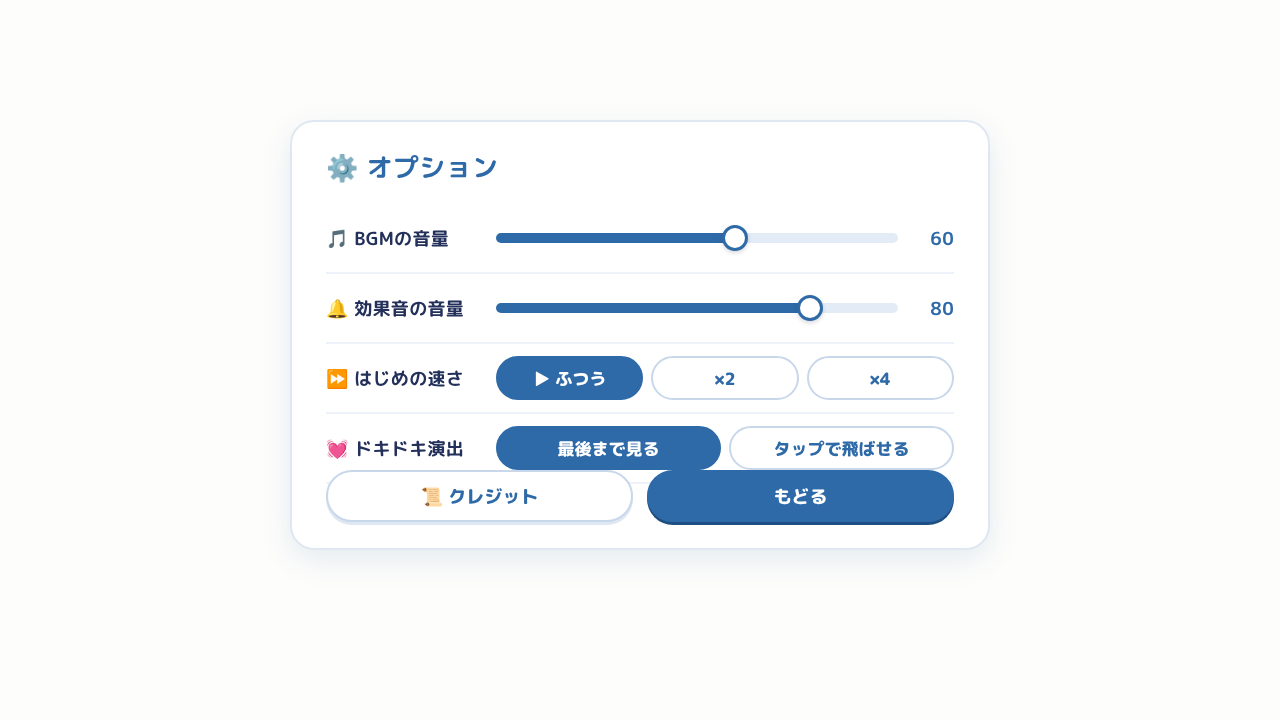
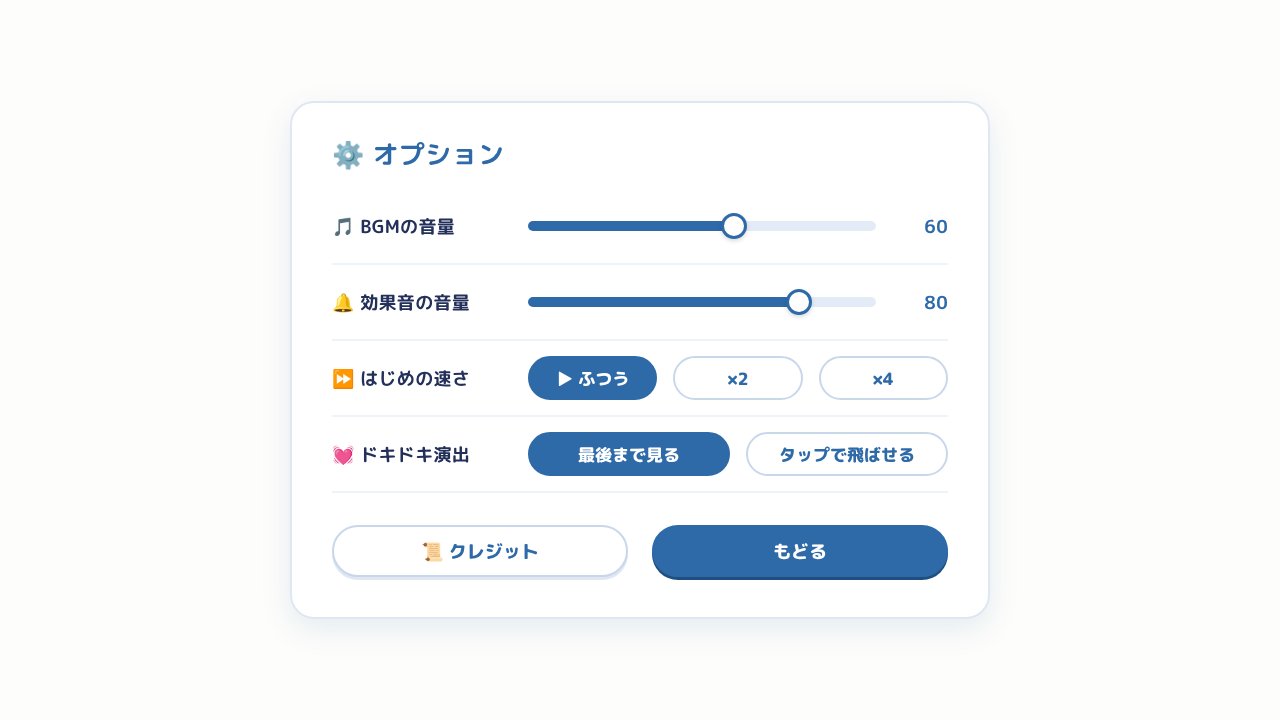
Add history, backlog, junior-high report card and school detail screens; spacing rules
Options buttons get proper breathing room, and an 8px spacing scale in
base.css is now used for gaps between parts, groups and buttons.

Claude-Session: https://claude.ai/code/session_014jpFHFwaTKn7m7KqBEwBuE

diff --git a/ui/report_jhs.html b/ui/report_jhs.html
@@ -1,0 +1,91 @@
+<!doctype html>
+<html lang="ja"><head><meta charset="utf-8"><meta name="viewport" content="width=device-width,initial-scale=1">
+<title>まなびライフ 通知表（中学）</title>
+<link rel="stylesheet" href="base.css">
+<style>
+#behind{position:absolute;inset:0;background:url(../docs/ui/mock-main.png) center/cover;filter:blur(1px)}
+/* 通知表（紙） */
+#paper{position:relative;width:1150px;height:660px;display:grid;grid-template-columns:600px 1fr;column-gap:22px;padding:22px 26px;color:var(--ink);
+  background:#fffdf6;border:4px solid #fff;border-radius:20px;box-shadow:inset 0 0 0 3px #ffe2a8,0 16px 40px rgba(5,10,40,.6);animation:pop .25s ease-out}
+.left{display:flex;flex-direction:column}
+.hd{display:flex;align-items:baseline;gap:12px;padding-bottom:10px;border-bottom:3px double #e6cfa5}
+.hd .t{font-size:30px;font-weight:900;letter-spacing:.3em}
+.hd .g{font-size:18px;color:var(--ink2)}
+.hd .n{margin-left:auto;font-size:18px}
+.tb{margin-top:10px}
+.tr{display:grid;grid-template-columns:140px 56px 24px 1fr;align-items:center;column-gap:0;height:50px;border-bottom:2px solid #f1e6d2;font-size:19px}
+.tr>span:first-child{padding-left:6px}
+.tr.th{height:30px;font-size:13px;color:var(--ink2)}
+.ev{font-size:30px;font-weight:900;text-align:center;line-height:1}
+.ev.s2{color:#e8457f}.ev.s1{color:#0a8fd1}.ev.s0{color:#a7aec4}
+.ev.g5{color:#e8457f}.ev.g4{color:#f08a1c}.ev.g3{color:#0a8fd1}.ev.g2{color:#7f8bb0}.ev.g1{color:#a7aec4}
+.tr.sum{border-bottom:0;border-top:3px double #e6cfa5}.tr.sum .ev{font-size:24px;color:var(--ink)}
+.tr>span:last-child{font-size:15px;color:var(--ink2);padding-left:10px}
+.up{color:#2fbf86;font-size:14px}.dn{color:#e44d62;font-size:14px}
+.legend{display:flex;gap:18px;margin-top:10px;font-size:13px;color:var(--ink2);padding-left:6px}
+.legend b{font-size:16px;margin-right:2px}.legend .s2{color:#e8457f}.legend .s1{color:#0a8fd1}.legend .s0{color:#a7aec4}
+.foot{margin-top:auto;background:#fbf3e3;border-radius:14px;padding:6px 14px}
+.foot .kv{display:grid;grid-template-columns:110px 1fr;align-items:start;padding:6px 0;font-size:15px;line-height:1.5}
+.foot .kv+.kv{border-top:2px dashed #ecdcc2}
+.foot .k{font-size:13px;color:var(--ink2);padding-top:2px}
+.stamp{position:absolute;left:470px;top:96px;width:92px;height:92px;border-radius:50%;border:4px solid #e44d62;color:#e44d62;display:flex;align-items:center;justify-content:center;
+  font-size:20px;font-weight:900;transform:rotate(-14deg);opacity:.85;line-height:1.1;text-align:center}
+/* 右：重点方針 */
+.right{display:flex;flex-direction:column;padding-left:22px;border-left:3px dashed #ecdcc2}
+.right .q{font-size:22px;line-height:1.5;margin:4px 0 12px}
+.right .q small{display:block;font-size:14px;color:var(--ink2)}
+.fgrid{display:grid;grid-template-columns:1fr 1fr;gap:10px}
+.fgrid button{height:70px;border-radius:16px;font-size:18px;display:grid;grid-template-columns:40px 1fr;align-items:center;justify-items:start;text-align:left;padding:0 12px;column-gap:8px}
+.fgrid button>span:last-child{display:flex;flex-direction:column;align-items:flex-start}
+.fgrid button .i{font-size:28px;text-align:center}
+.fgrid button small{display:block;font-size:12px;color:var(--ink2);font-weight:700}
+.fgrid button.sel{box-shadow:0 0 0 4px var(--cyan),0 5px 0 #b9c6e2;background:linear-gradient(180deg,#e9fbff,#d4f3fb)}
+#ok{margin-top:14px;height:54px;font-size:20px}
+.right .src{margin-top:12px}
+</style></head>
+<body>
+<div id="stage">
+  <div id="behind"></div>
+  <div class="ov">
+    <div id="paper">
+      <div class="left">
+        <div class="hd"><span class="t">通知表</span><span class="g">2025年3月　中学2年生</span><span class="n">高橋 さくら</span></div>
+        <div class="tb">
+          <div class="tr th"><span>教科</span><span>評定</span><span></span><span>先生から</span></div>
+          <div class="tr"><span>📖 国語</span><span class="ev g4">4</span><span></span><span>説明文の要約が的確です</span></div>
+          <div class="tr"><span>🔢 数学</span><span class="ev g5">5</span><span class="up">▲</span><span>関数の応用問題もよく解けています</span></div>
+          <div class="tr"><span>🔬 理科</span><span class="ev g3">3</span><span></span><span>実験レポートを丁寧にまとめよう</span></div>
+          <div class="tr"><span>🗾 社会</span><span class="ev g2">2</span><span class="dn">▼</span><span>歴史の流れを整理しよう</span></div>
+          <div class="tr"><span>🔤 英語</span><span class="ev g3">3</span><span></span><span>単語テストをがんばろう</span></div>
+          <div class="tr"><span>🏃 体育</span><span class="ev g4">4</span><span></span><span>部活の経験が生きています</span></div>
+          <div class="tr sum"><span>📊 合計</span><span class="ev">21</span><span></span><span>30点満点・高校入試の内申点のめやす</span></div>
+        </div>
+        <div class="legend"><span>5 たいへんよい</span><span>4 よい</span><span>3 ふつう</span><span>2 もう少し</span><span>1 がんばろう</span><span><b class="up">▲</b>▼ 去年とくらべて</span></div>
+        <div class="foot">
+          <div class="kv"><span class="k">📅 出席</span><span>欠席 0日・遅刻 1回</span></div>
+          <div class="kv"><span class="k">🏸 部活</span><span>バドミントン部（市大会ベスト8）</span></div>
+        </div>
+      </div>
+      <div class="right">
+        <div class="q">来年度は、何を大事にする？<small>選んだ方針で、1年間のステータスの伸び方が変わります</small></div>
+        <div class="fgrid">
+          <button class="sel"><span class="i">📚</span><span>勉強<small>全教科が伸びる・ストレス↑</small></span></button>
+          <button><span class="i">🎯</span><span>得意を伸ばす<small>数学・国語・体育がもっと伸びる</small></span></button>
+          <button><span class="i">🩹</span><span>苦手をなくす<small>社会が伸びる</small></span></button>
+          <button><span class="i">⚽</span><span>部活・習い事<small>スキル・人間関係↑</small></span></button>
+          <button><span class="i">🧑🤝🧑</span><span>友達と遊ぶ<small>人間関係・満足感↑</small></span></button>
+          <button><span class="i">🎮</span><span>趣味<small>満足感↑・ストレス↓</small></span></button>
+          <button><span class="i">🏋</span><span>健康<small>健康↑・運動の習慣</small></span></button>
+          <button><span class="i">😌</span><span>休養<small>ストレス↓↓</small></span></button>
+        </div>
+        <button class="gl g-green" id="ok">この方針で 3年生へ ▶</button>
+        <div class="src"><span>📊</span><span>中学校の通知表は5段階。中3の成績（内申点）は、多くの公立高校の入試で点数に入ります。<small>（文部科学省・各都道府県教育委員会）</small></span></div>
+      </div>
+    </div>
+  </div>
+</div>
+<script>
+const st=document.getElementById('stage');function fit(){const s=Math.min(innerWidth/1280,innerHeight/720);st.style.transform=`translate(-50%,-50%) scale(${s})`}addEventListener('resize',fit);fit();
+document.querySelectorAll('.fgrid button').forEach(b=>b.onclick=()=>{document.querySelectorAll('.fgrid button').forEach(x=>x.classList.remove('sel'));b.classList.add('sel')});
+</script>
+</body></html>

diff --git a/ui/school.html b/ui/school.html
@@ -1,0 +1,79 @@
+<!doctype html>
+<html lang="ja"><head><meta charset="utf-8"><meta name="viewport" content="width=device-width,initial-scale=1">
+<title>まなびライフ 学校の詳細</title>
+<link rel="stylesheet" href="base.css">
+<style>
+#behind{position:absolute;inset:0;background:url(../docs/ui/mock-main.png) center/cover;filter:blur(1px)}
+#box{position:relative;width:1180px;padding:var(--sp4);color:var(--ink);display:grid;grid-template-columns:420px 1fr;column-gap:var(--sp3);
+  background:#fcf9f3;border:4px solid #fff;border-radius:24px;box-shadow:inset 0 0 0 3px #ffe2a8,0 16px 40px rgba(5,10,40,.6);animation:pop .22s ease-out}
+.cs{position:absolute;left:var(--sp3);top:-20px;height:38px;padding:0 var(--sp2);border-radius:999px;display:flex;align-items:center;gap:6px;font-size:16px;color:#fff;
+  background:linear-gradient(180deg,#26346e,#16224a);border:3px solid #fff;box-shadow:0 4px 0 rgba(0,0,0,.25)}
+.img{height:236px;border-radius:16px;background:url(../assets/bg/univ.jpg) center/cover;position:relative;box-shadow:inset 0 0 0 3px #fff}
+.img .tag{position:absolute;left:10px;bottom:10px;height:32px;padding:0 12px;border-radius:999px;background:rgba(13,21,48,.82);color:#fff;font-size:15px;display:flex;align-items:center;gap:6px;border:2px solid rgba(255,255,255,.7)}
+.jt{margin-top:var(--sp2);display:grid;grid-template-columns:52px 1fr;align-items:center;column-gap:var(--sp1)}
+.jt .e{font-size:42px;text-align:center}
+.jt .n{font-size:24px;font-weight:900;line-height:1.2}
+.jt .n small{display:block;font-size:14px;color:var(--ink2);font-weight:700}
+.chips{display:flex;flex-wrap:wrap;gap:var(--sp1);margin-top:var(--sp2)}
+.chip{height:28px;padding:0 10px;border-radius:999px;background:#fff;box-shadow:0 2px 0 #d9cdb5;font-size:14px;display:inline-flex;align-items:center;gap:4px}
+.rate{margin-top:var(--sp2);height:64px;border-radius:16px;display:flex;align-items:center;justify-content:space-between;padding:0 var(--sp3);background:linear-gradient(180deg,#ffd760,#f0a81c);color:#fff;text-shadow:0 2px 0 rgba(0,0,0,.2)}
+.rate span{font-size:16px}.rate b{font-size:36px}
+.sec{background:#fff;border-radius:16px;padding:12px var(--sp2);box-shadow:0 3px 0 #ecdcc2;margin-bottom:var(--sp2)}
+.sec h4{font-size:14px;color:var(--ink2);margin-bottom:var(--sp1)}
+.money{display:grid;grid-template-columns:repeat(3,1fr);gap:var(--sp2)}
+.money div{background:#fbf3e3;border-radius:12px;padding:8px 12px}
+.money span{display:block;font-size:13px;color:var(--ink2)}
+.money b{font-size:22px}.money small{font-size:13px;color:var(--ink2)}
+.subj{display:grid;grid-template-columns:110px 1fr 70px 70px;align-items:center;column-gap:var(--sp2);height:32px;font-size:15px;font-variant-numeric:tabular-nums}
+.subj.th{height:24px;font-size:12px;color:var(--ink2)}
+.subj .me{text-align:right}.subj .need{text-align:right;color:var(--ink2)}
+.ok{color:#1f9d6a}.ng{color:#e44d62}
+.after{display:grid;grid-template-columns:110px 1fr;align-items:center;column-gap:var(--sp2);min-height:30px;font-size:15px}
+.after .k{font-size:13px;color:var(--ink2)}
+.eff{display:grid;grid-template-columns:repeat(5,1fr);gap:var(--sp1)}
+.eff div{height:54px;border-radius:12px;background:#fbf3e3;display:flex;flex-direction:column;align-items:center;justify-content:center;font-size:13px;color:var(--ink2)}
+.eff b{font-size:17px}.up{color:#1f9d6a}.dn{color:#e44d62}
+.btns{display:grid;grid-template-columns:1fr 1fr;gap:var(--sp3);margin-top:var(--sp1)}
+.btns button{height:56px;font-size:19px}
+.src{margin-top:var(--sp2)}
+</style></head>
+<body>
+<div id="stage">
+  <div id="behind"></div>
+  <div class="ov">
+    <div id="box">
+      <div class="cs">🎯 進路選択 ・ 2027年7月 ・ 高校3年生</div>
+      <div>
+        <div class="img"><span class="tag">📍 東京都（実家から通学 70分）</span></div>
+        <div class="jt"><span class="e">🎓</span><span class="n"><small>私立大学｜4年制｜理系</small>東京の難関私立大学 理工学部</span></div>
+        <div class="chips"><span class="chip">📈 偏差値 63</span><span class="chip">🏫 キャンパスは都心</span><span class="chip">🔬 大学院に進む人 約4割</span></div>
+        <div class="rate"><span>あなたの合格率</span><b>46%</b></div>
+      </div>
+      <div>
+        <div class="sec"><h4>💴 学費（家計から）</h4>
+          <div class="money">
+            <div><span>入学のとき</span><b>155</b><small>万円</small></div>
+            <div><span>2年目から（毎年）</span><b>150</b><small>万円</small></div>
+            <div><span>4年間の合計</span><b>605</b><small>万円</small></div>
+          </div>
+        </div>
+        <div class="sec"><h4>✏ 入試で見られる教科（あなた ／ 合格ライン）</h4>
+          <div class="subj th"><span>教科</span><span></span><span class="me">あなた</span><span class="need">めやす</span></div>
+          <div class="subj"><span>🔢 数学</span><span class="bar c-blue"><i style="--w:68%"></i></span><span class="me ok">68</span><span class="need">65</span></div>
+          <div class="subj"><span>🔬 理科</span><span class="bar c-blue"><i style="--w:57%"></i></span><span class="me ng">57</span><span class="need">63</span></div>
+          <div class="subj"><span>🔤 英語</span><span class="bar c-blue"><i style="--w:61%"></i></span><span class="me ok">61</span><span class="need">60</span></div>
+        </div>
+        <div class="sec"><h4>🧭 卒業したあと ／ 📊 4年間のステータスの変化</h4>
+          <div class="after"><span class="k">おもな就職先</span><span>⚙ メーカー技術職・🧑💻 ITエンジニア・🔬 研究職</span></div>
+          <div class="eff" style="margin-top:var(--sp1)">
+            <div>📚 学力<b class="up">↑ 大</b></div><div>😣 ストレス<b class="dn">↑ 中</b></div><div>🤝 人間関係<b class="up">↑ 中</b></div><div>❤ 健康<b>−</b></div><div>😊 満足感<b class="up">↑ 小</b></div>
+          </div>
+        </div>
+        <div class="btns"><button class="gl g-navy">◀ ほかの候補にもどる</button><button class="gl g-green">この学校を受ける ▶</button></div>
+        <div class="src"><span>📊</span><span>私立大学（理系）の1年目の費用は平均で約150万円。国立大学は約82万円です。<small>（文部科学省）</small></span></div>
+      </div>
+    </div>
+  </div>
+</div>
+<script>const st=document.getElementById('stage');function fit(){const s=Math.min(innerWidth/1280,innerHeight/720);st.style.transform=`translate(-50%,-50%) scale(${s})`}addEventListener('resize',fit);fit();</script>
+</body></html>

diff --git a/ui/history.html b/ui/history.html
@@ -1,0 +1,59 @@
+<!doctype html>
+<html lang="ja"><head><meta charset="utf-8"><meta name="viewport" content="width=device-width,initial-scale=1">
+<title>まなびライフ これまでの人生</title>
+<link rel="stylesheet" href="base.css">
+<style>
+#stage{background:#fdfdfb}#stage::before{display:none}
+.hd{position:absolute;left:64px;right:64px;top:var(--sp4);height:56px;display:flex;align-items:center;gap:var(--sp3);color:var(--ink)}
+.hd h1{font-size:28px;color:var(--blue)}
+.hd .st{display:flex;gap:var(--sp2);margin-left:auto}
+.hd .st div{height:44px;padding:0 var(--sp2);border-radius:999px;background:#eef4fb;display:flex;align-items:center;gap:var(--sp1);font-size:15px;color:var(--ink2)}
+.hd .st b{font-size:18px;color:var(--ink)}
+.grid{position:absolute;left:64px;right:64px;top:120px;display:grid;grid-template-columns:repeat(3,1fr);gap:var(--sp3)}
+.card{height:236px;padding:var(--sp2);border-radius:20px;background:#fff;border:2px solid #dfe7f3;box-shadow:0 6px 16px rgba(47,106,168,.08);display:grid;grid-template-columns:120px 1fr;column-gap:var(--sp2);row-gap:10px;color:var(--ink);cursor:pointer;transition:transform .15s}
+.card:hover{transform:translateY(-3px);border-color:var(--blue)}
+.card .pic{width:120px;height:120px;border-radius:14px;background:#e9dcc6 center/cover;box-shadow:inset 0 0 0 2px #e6cfa5}
+.card .nm{font-size:21px;font-weight:900;line-height:1.2}
+.card .nm small{display:block;font-size:12px;color:var(--ink2);font-weight:700}
+.card .life{margin-top:6px;font-size:14px;color:var(--ink2);line-height:1.6}
+.card .end{grid-column:1/3;display:grid;grid-template-columns:1fr auto;align-items:center;height:40px;padding:0 var(--sp2);border-radius:12px;background:#f5f8fd}
+.card .end span{font-size:15px}
+.card .end b{font-size:22px;color:var(--blue)}.card .end b small{font-size:13px}
+.card .job{grid-column:1/3;font-size:14px;color:var(--ink2);display:grid;grid-template-columns:auto 1fr;column-gap:var(--sp1)}
+.card.empty{display:flex;align-items:center;justify-content:center;color:#b8c3d8;font-size:16px;background:#fafcff;border-style:dashed;box-shadow:none;cursor:default}
+.e1{color:#9b6cff}.e2{color:#0a8fd1}.e3{color:#f08a1c}.e4{color:#2fbf86}.e5{color:#e8457f}
+.pager{position:absolute;left:64px;right:64px;top:640px;display:grid;grid-template-columns:200px 1fr 200px;align-items:center;column-gap:var(--sp3)}
+.pager button{height:52px;font-size:18px;color:var(--blue);background:#fff;border:2px solid #c9d7ea;border-radius:999px;box-shadow:0 3px 0 #dfe7f3}
+.pager button.main{color:#fff;background:var(--blue);border-color:var(--blue);box-shadow:0 3px 0 #1f4f82}
+.pager .dots{display:flex;justify-content:center;gap:var(--sp1)}
+.pager .dots i{width:10px;height:10px;border-radius:50%;background:#d6e0ee}.pager .dots i.on{background:var(--blue)}
+.pager .nav{display:flex;gap:var(--sp2);justify-content:center}
+.pager .nav button{width:120px}
+</style></head>
+<body>
+<div id="stage">
+  <div class="hd">
+    <h1>📜 これまでの人生</h1>
+    <div class="st"><div>生きた人生 <b>5</b> 人</div><div>平均 <b>61</b> 点</div><div>いちばん長生き <b>93</b> 歳</div></div>
+  </div>
+  <div class="grid">
+    <div class="card"><div class="pic" style="background-image:url(../assets/faces/F_80.png)"></div><div><div class="nm"><small>たかはし さくら</small>高橋 さくら</div><div class="life">神奈川県生まれ<br>2010〜2094年（84歳）<br>老衰</div></div>
+      <div class="end"><span class="e4">✨ バランスのとれた人生</span><b>72<small>点</small></b></div><div class="job"><span>💼</span><span>小学校教員 → 校長</span></div></div>
+    <div class="card"><div class="pic" style="background-image:url(../assets/faces/M_60.png)"></div><div><div class="nm"><small>さとう ひろと</small>佐藤 大翔</div><div class="life">秋田県生まれ<br>2010〜2071年（61歳）<br>病気（がん）</div></div>
+      <div class="end"><span class="e3">📖 波乱万丈の人生</span><b>48<small>点</small></b></div><div class="job"><span>💼</span><span>工場の製造スタッフ → AIでリストラ → 介護職</span></div></div>
+    <div class="card"><div class="pic" style="background-image:url(../assets/faces/F_80.png)"></div><div><div class="nm"><small>なかむら めい</small>中村 芽依</div><div class="life">大阪府生まれ<br>2010〜2103年（93歳）<br>老衰</div></div>
+      <div class="end"><span class="e5">🏆 幸福な人生</span><b>86<small>点</small></b></div><div class="job"><span>💼</span><span>看護師 → 看護部長</span></div></div>
+    <div class="card"><div class="pic" style="background-image:url(../assets/faces/M_80.png)"></div><div><div class="nm"><small>いとう れん</small>伊藤 蓮</div><div class="life">福岡県生まれ<br>2010〜2088年（78歳）<br>病気（脳卒中）</div></div>
+      <div class="end"><span class="e2">❓ 試行錯誤の人生</span><b>39<small>点</small></b></div><div class="job"><span>💼</span><span>動画配信者 → 起業（失敗）→ タクシー運転手</span></div></div>
+    <div class="card"><div class="pic" style="background-image:url(../assets/faces/F_60.png)"></div><div><div class="nm"><small>ひが あおい</small>比嘉 葵</div><div class="life">沖縄県生まれ<br>2010〜2079年（69歳）<br>病気（心臓）</div></div>
+      <div class="end"><span class="e4">✨ バランスのとれた人生</span><b>61<small>点</small></b></div><div class="job"><span>💼</span><span>ホテル・観光 → 支配人</span></div></div>
+    <div class="card empty">つぎの人生が ここに入ります</div>
+  </div>
+  <div class="pager">
+    <button>◀ タイトルへ</button>
+    <div class="nav"><button>◀ 前</button><div class="dots" style="align-self:center"><i class="on"></i><i></i></div><button>次 ▶</button></div>
+    <button class="main">📤 書き出す（QR）</button>
+  </div>
+</div>
+<script>const st=document.getElementById('stage');function fit(){const s=Math.min(innerWidth/1280,innerHeight/720);st.style.transform=`translate(-50%,-50%) scale(${s})`}addEventListener('resize',fit);fit();</script>
+</body></html>

diff --git a/ui/backlog.html b/ui/backlog.html
@@ -1,0 +1,59 @@
+<!doctype html>
+<html lang="ja"><head><meta charset="utf-8"><meta name="viewport" content="width=device-width,initial-scale=1">
+<title>まなびライフ バックログ</title>
+<link rel="stylesheet" href="base.css">
+<style>
+#behind{position:absolute;inset:0;background:url(../docs/ui/mock-adult.png) center/cover;filter:blur(2px)}
+#log{position:absolute;left:var(--sp5);right:var(--sp5);top:var(--sp4);bottom:var(--sp4);display:grid;grid-template-columns:220px 1fr;column-gap:var(--sp3);grid-template-rows:56px 1fr 52px;row-gap:var(--sp3);
+  padding:var(--sp4);background:linear-gradient(100deg,rgba(14,24,56,.96),rgba(20,34,78,.94));box-shadow:inset 6px 0 0 var(--cyan),0 16px 40px rgba(0,0,0,.5);border-radius:20px}
+.hd{grid-column:1/3;display:flex;align-items:center;gap:var(--sp3)}
+.hd h1{font-size:26px}
+.hd .f{display:flex;gap:var(--sp1);margin-left:auto}
+.hd .f button{height:40px;padding:0 var(--sp2);font-size:14px;color:#cfe0ff;background:rgba(255,255,255,.08);border:2px solid rgba(255,255,255,.18);border-radius:999px;box-shadow:none}
+.hd .f button.on{color:#0d1530;background:var(--cyan);border-color:var(--cyan)}
+.yr{display:flex;flex-direction:column;gap:var(--sp1)}
+.yr button{height:44px;text-align:left;padding:0 var(--sp2);font-size:15px;color:#cfe0ff;background:rgba(255,255,255,.06);border:0;border-radius:12px;box-shadow:none;display:grid;grid-template-columns:1fr auto;align-items:center}
+.yr button small{color:#7f93bd;font-size:13px}
+.yr button.on{color:#0d1530;background:#fff}
+.yr button.on small{color:var(--ink2)}
+#list{padding-right:var(--sp2);min-height:0}
+.age{position:sticky;top:0;z-index:1;height:34px;display:flex;align-items:center;font-size:14px;color:var(--cyan);background:rgba(16,28,64,.98);border-bottom:2px solid rgba(30,200,234,.35);margin-bottom:var(--sp1)}
+.p{display:grid;grid-template-columns:52px 36px 40px 1fr;align-items:center;column-gap:var(--sp1);min-height:44px;padding:6px 0;border-bottom:1px solid rgba(255,255,255,.07);font-size:16px;line-height:1.45;font-variant-numeric:tabular-nums}
+.p .y,.p .m{font-size:14px;color:#9fb4dc;white-space:nowrap}.p .m{text-align:right}
+.p .e{width:34px;height:34px;border-radius:10px;background:rgba(255,255,255,.1);display:flex;align-items:center;justify-content:center;font-size:19px;justify-self:center}
+.p.c .t{color:#ffe28a}.p.c .t small{display:block;font-size:13px;color:#9fb4dc}
+.ft{grid-column:1/3;display:grid;grid-template-columns:1fr 240px;column-gap:var(--sp3);align-items:center}
+.ft .n{font-size:14px;color:#9fb4dc}
+.ft button{height:52px;font-size:18px}
+</style></head>
+<body>
+<div id="stage">
+  <div id="behind"></div>
+  <div id="log">
+    <div class="hd"><h1>📖 バックログ</h1>
+      <div class="f"><button class="on">すべて</button><button>選んだこと</button><button>お金</button><button>家族</button><button>健康</button></div></div>
+    <div class="yr">
+      <button>0〜9歳<small>42</small></button>
+      <button>10〜19歳<small>51</small></button>
+      <button class="on">20〜29歳<small>47</small></button>
+      <button>30〜39歳<small>18</small></button>
+    </div>
+    <div id="list" class="scroll">
+      <div class="age">22歳（2032年）</div>
+      <div class="p"><span class="y">2032年</span><span class="m">4月</span><span class="e">🧑🏫</span><span class="t">小学校の先生になった。初任給は26.1万円。</span></div>
+      <div class="p c"><span class="y">2032年</span><span class="m">4月</span><span class="e">🏠</span><span class="t">ひとり暮らしを始めた（家賃 月6.5万円）<small>選んだ：部屋を借りてひとり暮らし</small></span></div>
+      <div class="p"><span class="y">2032年</span><span class="m">6月</span><span class="e">💰</span><span class="t">はじめてのボーナス。32万円。家族にごちそうした。</span></div>
+      <div class="p"><span class="y">2032年</span><span class="m">10月</span><span class="e">📄</span><span class="t">奨学金の返済が始まった。毎月1.5万円、16年間。</span></div>
+      <div class="age">23歳（2033年）</div>
+      <div class="p c"><span class="y">2033年</span><span class="m">4月</span><span class="e">🚗</span><span class="t">新車をローンで買った（250万円・5年ローン）<small>選んだ：新車をローンで買う</small></span></div>
+      <div class="p"><span class="y">2033年</span><span class="m">7月</span><span class="e">🏃</span><span class="t">運動会の準備で、毎日夜おそくまで学校に残った。体育の授業で子どもたちとリレーをした。</span></div>
+      <div class="p c"><span class="y">2033年</span><span class="m">10月</span><span class="e">💍</span><span class="t">プロポーズした。返事は……OK！<small>選んだ：プロポーズする（ドキドキ）</small></span></div>
+      <div class="p"><span class="y">2034年</span><span class="m">1月</span><span class="e">🟥</span><span class="t">所持金がマイナスになった。足りない分はカードローンで借りていることになる。</span></div>
+      <div class="age">24歳（2034年）</div>
+      <div class="p c"><span class="y">2034年</span><span class="m">4月</span><span class="e">📄</span><span class="t">奨学金の減額返還を申請した<small>選んだ：減額返還を申請する</small></span></div>
+    </div>
+    <div class="ft"><span class="n">💡 ゲームは止まっています。ログは人生の終わりまで、すべて残ります</span><button class="gl g-cyan">✕ とじる</button></div>
+  </div>
+</div>
+<script>const st=document.getElementById('stage');function fit(){const s=Math.min(innerWidth/1280,innerHeight/720);st.style.transform=`translate(-50%,-50%) scale(${s})`}addEventListener('resize',fit);fit();</script>
+</body></html>

diff --git a/ui/options.html b/ui/options.html
@@ -5,29 +5,29 @@
 <style>
 #stage{background:#fdfdfb}
 #stage::before{display:none}
-.panel{position:absolute;left:290px;top:120px;width:700px;height:430px;padding:26px 34px;color:var(--ink);background:#fff;border:2px solid #dfe7f3;border-radius:24px;box-shadow:0 10px 30px rgba(47,106,168,.12)}
-h1{font-size:26px;color:var(--blue);margin-bottom:18px;display:flex;align-items:center;gap:10px}
-.row{display:grid;grid-template-columns:170px 1fr 56px;align-items:center;height:70px;border-bottom:2px solid #eef3fa;font-size:18px}
+.panel{position:absolute;left:290px;top:50%;transform:translateY(-50%);width:700px;padding:var(--sp4) var(--sp5) var(--sp5);display:flex;flex-direction:column;color:var(--ink);background:#fff;border:2px solid #dfe7f3;border-radius:24px;box-shadow:0 10px 30px rgba(47,106,168,.12)}
+h1{font-size:26px;color:var(--blue);margin-bottom:var(--sp2);display:flex;align-items:center;gap:10px}
+.row{display:grid;grid-template-columns:180px 1fr 56px;column-gap:var(--sp2);align-items:center;height:76px;border-bottom:2px solid #eef3fa;font-size:18px}
 .row .k{color:var(--ink)}
 .row .v{text-align:right;font-variant-numeric:tabular-nums;color:var(--blue)}
 input[type=range]{-webkit-appearance:none;appearance:none;width:100%;height:10px;border-radius:5px;background:linear-gradient(90deg,var(--blue) var(--p),#e3ebf6 var(--p));outline:0}
 input[type=range]::-webkit-slider-thumb{-webkit-appearance:none;width:26px;height:26px;border-radius:50%;background:#fff;border:3px solid var(--blue);box-shadow:0 2px 4px rgba(0,0,0,.15)}
 input[type=range]::-moz-range-thumb{width:22px;height:22px;border-radius:50%;background:#fff;border:3px solid var(--blue)}
-.seg{display:grid;grid-template-columns:repeat(3,1fr);gap:8px;grid-column:2/4}
+.seg{display:grid;grid-template-columns:repeat(3,1fr);gap:var(--sp2);grid-column:2/4}
 .seg button,.sw button{height:44px;font-size:17px;color:var(--blue);background:#fff;border:2px solid #c9d7ea;border-radius:999px;box-shadow:none}
 .seg button.on,.sw button.on{color:#fff;background:var(--blue);border-color:var(--blue)}
-.sw{display:grid;grid-template-columns:1fr 1fr;gap:8px;grid-column:2/4}
-.btns{position:absolute;left:34px;right:34px;bottom:26px;display:grid;grid-template-columns:1fr 1fr;gap:14px}
+.sw{display:grid;grid-template-columns:1fr 1fr;gap:var(--sp2);grid-column:2/4}
+.btns{margin-top:var(--sp4);display:grid;grid-template-columns:1fr 1fr;gap:var(--sp3)}
 .btns button{height:52px;font-size:18px;color:var(--blue);background:#fff;border:2px solid #c9d7ea;border-radius:999px;box-shadow:0 3px 0 #dfe7f3}
 .btns button.main{color:#fff;background:var(--blue);border-color:var(--blue);box-shadow:0 3px 0 #1f4f82}
 /* クレジット */
 #cr{display:none;background:rgba(253,253,251,.92);backdrop-filter:none}#cr.on{display:flex}
-#cr .box{width:760px;height:600px;padding:26px 36px;color:var(--ink);background:#fff;border:2px solid #dfe7f3;border-radius:24px;box-shadow:0 10px 30px rgba(47,106,168,.15);animation:pop .2s;position:relative}
-#cr h2{font-size:24px;color:var(--blue);margin-bottom:14px}
-.cr{display:grid;grid-template-columns:200px 1fr;align-items:baseline;padding:9px 0;border-bottom:2px solid #eef3fa;font-size:17px;line-height:1.5}
+#cr .box{width:760px;padding:var(--sp4) var(--sp5) var(--sp5);display:flex;flex-direction:column;color:var(--ink);background:#fff;border:2px solid #dfe7f3;border-radius:24px;box-shadow:0 10px 30px rgba(47,106,168,.15);animation:pop .2s;position:relative}
+#cr h2{font-size:24px;color:var(--blue);margin-bottom:var(--sp2)}
+.cr{display:grid;grid-template-columns:200px 1fr;column-gap:var(--sp2);align-items:baseline;padding:10px 0;border-bottom:2px solid #eef3fa;font-size:17px;line-height:1.5}
 .cr .k{font-size:14px;color:var(--ink2)}
 .cr small{display:block;font-size:13px;color:var(--ink2)}
-#crClose{position:absolute;left:36px;right:36px;bottom:24px;height:50px;font-size:18px;color:#fff;background:var(--blue);border:0;border-radius:999px;box-shadow:0 3px 0 #1f4f82}
+#crClose{margin-top:var(--sp4);height:52px;font-size:18px;color:#fff;background:var(--blue);border:0;border-radius:999px;box-shadow:0 3px 0 #1f4f82}
 </style></head>
 <body>
 <div id="stage">

diff --git a/ui/base.css b/ui/base.css
@@ -1,7 +1,9 @@
 /* まなびライフ 共通スタイル（manabi-battle の つやボタン・パールパネルを流用） */
 @font-face{font-family:"MBRound";font-weight:700;src:url("fonts/MPLUSRounded1c-Bold.woff") format("woff")}
 @font-face{font-family:"MBRound";font-weight:800 900;src:url("fonts/MPLUSRounded1c-ExtraBold.woff") format("woff")}
+/* 間かくのルール：8の倍数。部品どうし 16px、かたまりどうし 24px、ボタンどうし 20px 以上、わくの内側 32px 以上、最後の中身とボタンの間 32px 以上 */
 :root{
+  --sp1:8px;--sp2:16px;--sp3:24px;--sp4:32px;--sp5:40px;
   --f:"MBRound","BIZ UDPGothic","Hiragino Maru Gothic ProN","Meiryo",sans-serif;
   --ink:#23305a;--ink2:#5d6b8f;--cyan:#1ec8ea;--cyan2:#0a8fd1;--navy:#16224a;
   --gold:#ffcf3f;--orange:#f08a1c;--pink:#ff6fa8;--mint:#43d6a2;--red:#e44d62;--blue:#2f6aa8;

diff --git a/ui/result.html b/ui/result.html
@@ -54,7 +54,7 @@ svg text{font-family:var(--f);font-weight:700;paint-order:stroke;stroke:#fff;str
 .side .tx.sum .n{color:#1f9d6a}
 .note2{grid-column:1/3;margin-top:8px;font-size:14px;color:var(--ink2);background:#fbf3e3;border-radius:12px;padding:8px 14px}
 #taxClose{position:absolute;right:20px;top:16px;width:120px;height:40px;font-size:15px}
-#bot{position:absolute;left:396px;top:624px;width:848px;height:56px;display:flex;align-items:center;gap:14px}
+#bot{position:absolute;left:396px;top:624px;width:848px;height:56px;display:flex;align-items:center;gap:var(--sp3)}
 #bot .saved{flex:1;font-size:15px;color:#9fb4dc}
 #bot button{width:220px;height:52px;font-size:19px}
 </style></head>

diff --git a/ui/job.html b/ui/job.html
@@ -36,7 +36,7 @@
 .eff{display:grid;grid-template-columns:repeat(5,1fr);gap:8px}
 .eff div{height:58px;border-radius:12px;background:#fbf3e3;display:flex;flex-direction:column;align-items:center;justify-content:center;font-size:14px;color:var(--ink2)}
 .eff b{font-size:18px}.dn{color:#e44d62}.up{color:#1f9d6a}
-.btns{display:grid;grid-template-columns:1fr 1fr;gap:12px;margin-top:4px}
+.btns{display:grid;grid-template-columns:1fr 1fr;gap:var(--sp3);margin-top:var(--sp1)}
 .btns button{height:56px;font-size:19px}
 .src{margin-top:10px}
 </style></head>

diff --git a/docs/11-screens-and-save.md b/docs/11-screens-and-save.md
@@ -17,7 +17,12 @@
 | メイン | `ui/mock.html` | タイムライン・ステータス・背景。`#adult` で社会人の表示。季節が進むと所持金の横に「＋62」「💰+124（賞与つき）」「−12」が小さく出て消える |
 | 通知表 | `ui/report.html` | 毎年3月。紙の通知表（小は◎〇△、中高は1〜5）＋先生のことば（才能のヒント）＋来年度の重点方針を選ぶ |
 | リザルト | `ui/result.html` | 人生のまとめ・才能の公開・お金のグラフ・できごとを4つのタブで切りかえ（スクロールなし）。まとめに「🧾 納めた税金」。［くわしく］で税金の内訳ポップアップ（`#tax`）：税金の種類ごとの生涯合計と、増えた理由（たばこ・お酒・車・家）・減った理由（扶養家族・住宅ローン控除）、社会保険料、受け取ったもの（年金・児童手当・医療費など）。データは `data/taxes.json` |
-| これまでの人生 | （未作成） | リザルトの一覧。名前・生まれた県・年数・エンディング・点数のカードを並べ、タップでリザルトを開く |
+| これまでの人生 | `ui/history.html` | 白背景。3×2のカード（顔・名前・生まれた県・年・死因・エンディング・点数・仕事の流れ）。◀▶でページ送り、QRで書き出し |
+| バックログ | `ui/backlog.html` | 年代タブ（0〜9歳…）とジャンル（すべて／選んだこと／お金／家族／健康）。選んだことは金色＋「選んだ：〜」。ここだけスクロール可（細いバー） |
+| 通知表（中学・高校） | `ui/report_jhs.html` | 1〜5の数字と合計（内申点のめやす）。小学校と同じ列のそろえ方 |
+| 学校の詳細 | `ui/school.html` | 進学先の候補をタップすると必ず出る。学費（入学時・毎年・合計）、入試の教科ごとの自分の学力と合格ライン、卒業後の就職先、4年間のステータス変化、合格率 |
+| オプション | `ui/options.html` | 音量・はじめの速さ・ドキドキ演出の飛ばし方・クレジット（`#credit`） |
+| ドキドキ演出 | `ui/suspense.html` | 「入学試験中……」＋心臓の鼓動5秒 → 結果（`#mid` で途中の画面） |
 
 ## エンディングの点数
 `docs/00-overview.md` の5段階（困難・試行錯誤・波乱万丈・バランス・幸福）を使う。点数は「満足感の生涯平均」を中心に、家族・健康・お金の余裕を加える（00 の旧式「学歴＋仕事＋家庭＋資産」より、生まれた環境で差がつきにくい）。
@@ -27,3 +32,4 @@
 - **1画面におさめる**：ログ（タイムライン・バックログ）以外はスクロールさせない。入りきらないときは、文字を小さくする → タブ・ページ送り（◀▶）の順で対応する
 - **スクロールバー**：使うときは `ui/base.css` の `.scroll`（細い半透明のバー。ブラウザ標準の灰色のバーは出さない）
 - **評価の記号**：通知表は ◎〇△（中高は 1〜5）の文字だけ。丸い飾りはつけない
+- **間かく**：8の倍数（`ui/base.css` の `--sp1`〜`--sp5`）。部品どうし16px、かたまりどうし24px、ボタンどうし24px、わくの内側32px以上、最後の中身とボタンのあいだ32px以上。ボタンを画面のはしに `position:absolute` でくっつけず、中身の流れの最後に置く

diff --git a/docs/12-before-implementation.md b/docs/12-before-implementation.md
@@ -16,7 +16,7 @@
 5. 1プレイの長さの目安（いまの設計だと等速で12〜15分。10分にするなら流れるだけイベントを減らすか、等速を少し速くする）
 
 ## 実装のときに作るもの（未作成）
-- 画面：これまでの人生（一覧）、バックログ、汎用の選択肢ポップアップの全パターン、中高の通知表（1〜5）、職業以外の候補（学校）の詳細ポップアップ、家族タブの◀▶ページ送り
+- 画面：汎用の選択肢ポップアップの全パターン、家族タブの◀▶ページ送り（これまでの人生・バックログ・中高の通知表・学校の詳細は2026-10-24にサンプル作成ずみ）
 - テキスト：イベント文中の差し込み（{crush}{place}{someone}{scamText} など）の文例プール
 - エンジン：docs/09 の計算（成長・お金・税金・人物の加齢・不変条件チェック）、セーブ、QRでの書き出し
 - 最終：data と絵・音をすべて埋め込んだ単一HTML（音はBGMを64kbps程度に再圧縮して軽くする。いまのままだと音だけで約26MB）
